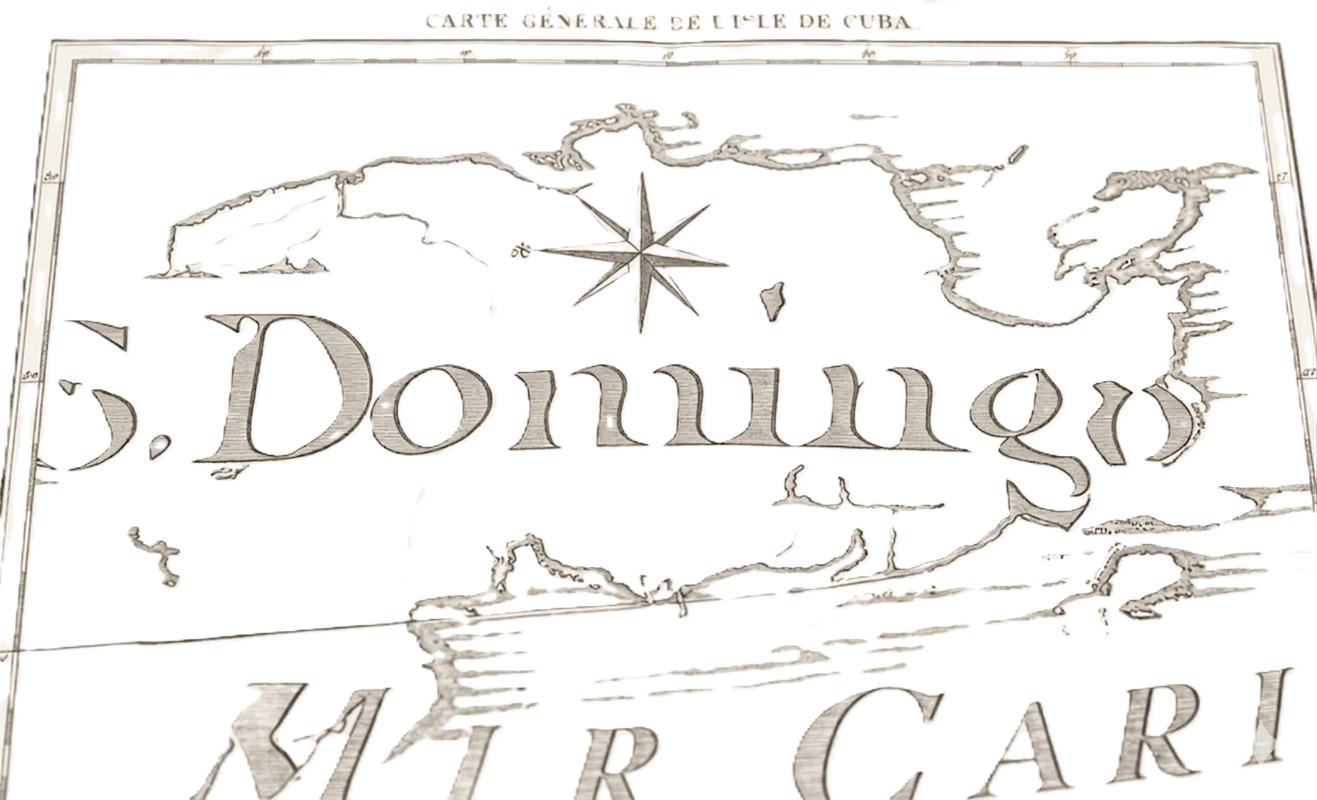
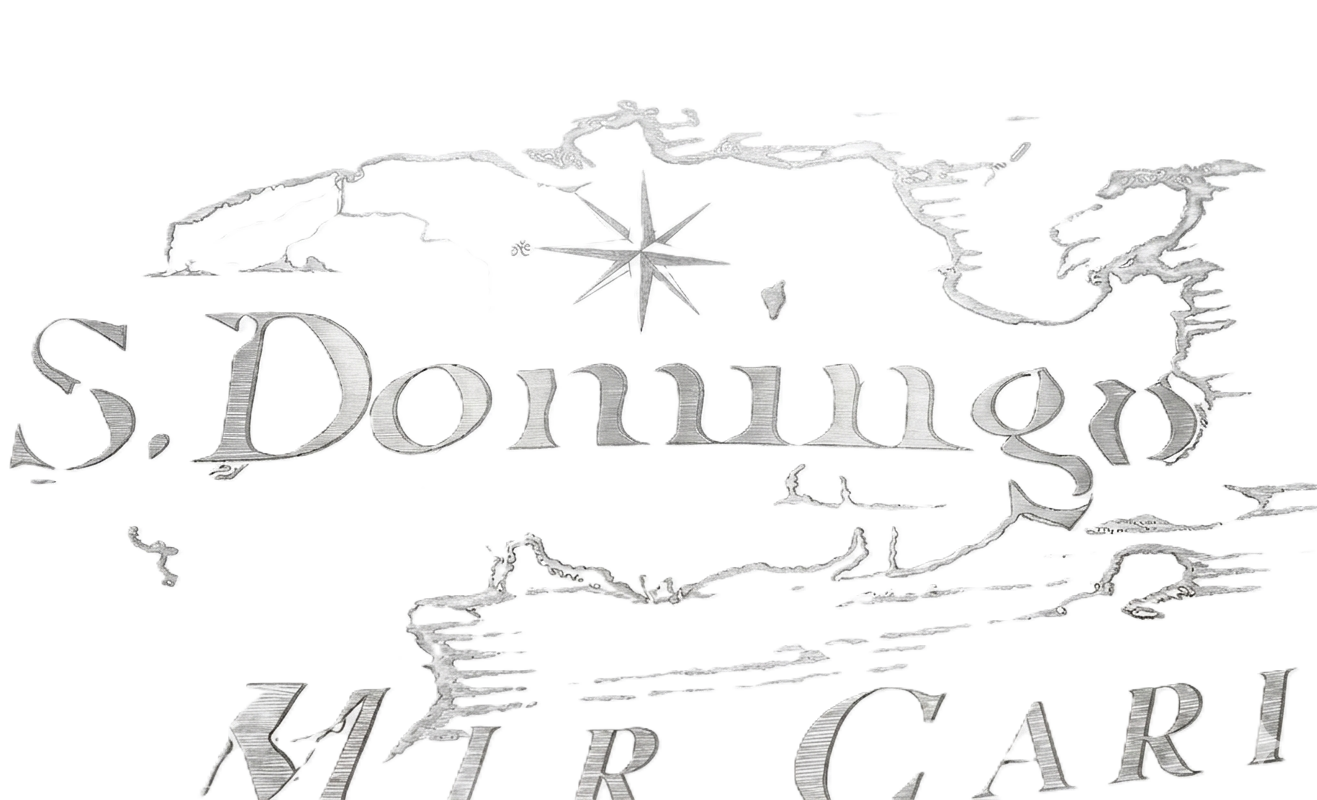
cambio en tamanio del circulo del mouse

diff --git a/src/Components/MousePointer.tsx b/src/Components/MousePointer.tsx
@@ -89,7 +89,7 @@ export default function MousePointer() {
         position: "fixed",
         left: 0,
         top: 0,
-        width: "3%",
+        width: "2%",
         aspectRatio: "1 / 1",
         borderRadius: "50%",
         borderWidth: "2px",